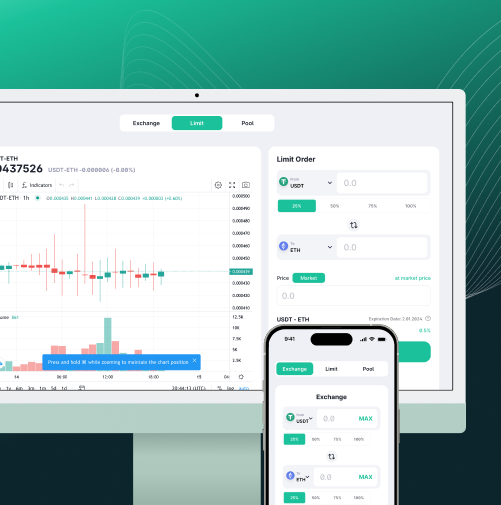
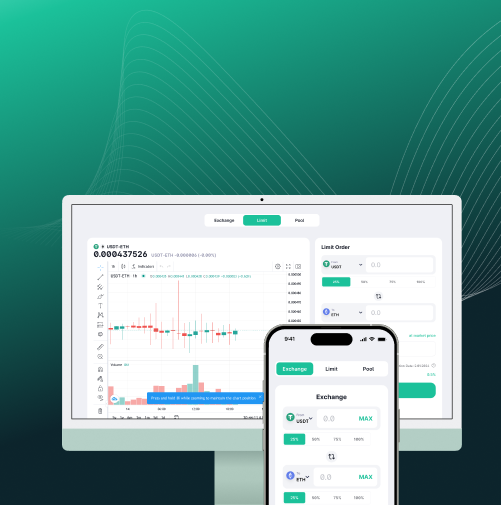
fixes

diff --git a/src/pages/home/blocks/Benefits.jsx b/src/pages/home/blocks/Benefits.jsx
@@ -95,7 +95,7 @@ export const Benefits = () => {
                 <Step data={index + 1} key={benefit.title + index}>
                   <article
                     className={cn(
-                      "px-default relative flex max-h-[278px] grow cursor-default flex-col items-center justify-center  overflow-hidden border-b border-b-th-fade py-6   will-change-transform lg:py-8",
+                      "px-default relative flex max-h-full grow cursor-default flex-col items-center justify-center  overflow-hidden border-b border-b-th-fade py-6   will-change-transform lg:py-8",
                       {
                         "max-h-max": scrollIndex === index
                       }